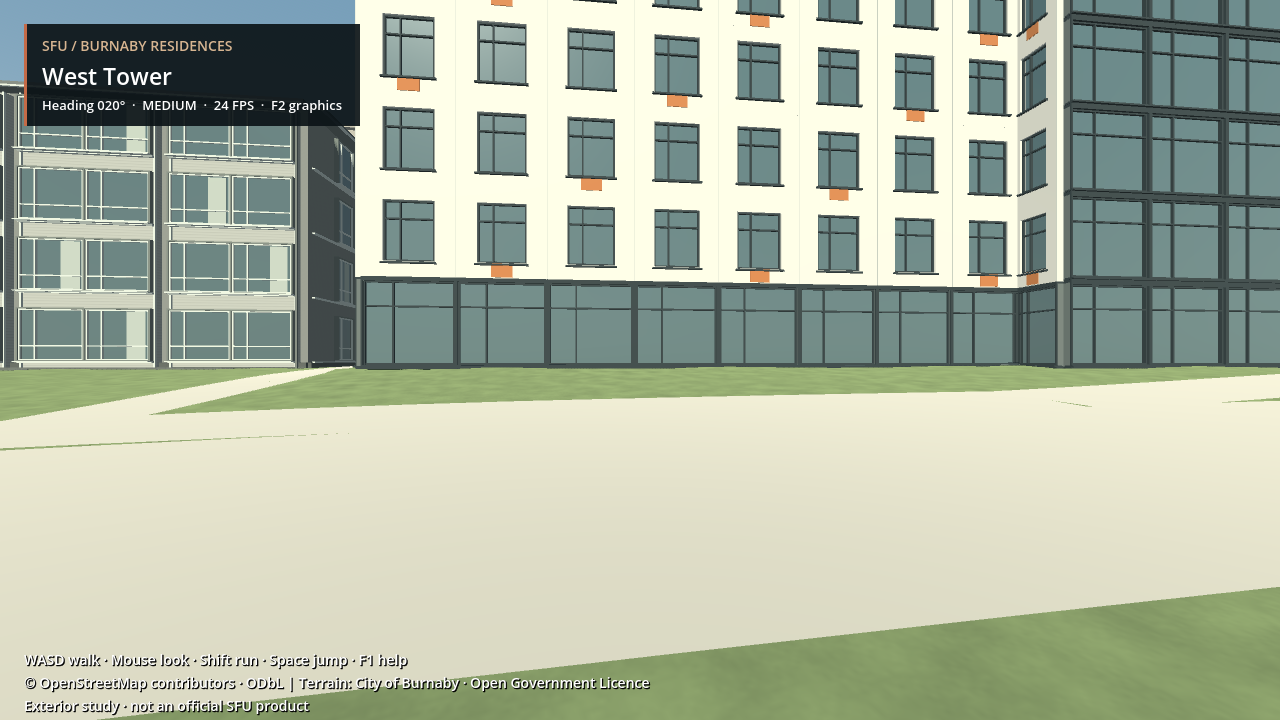
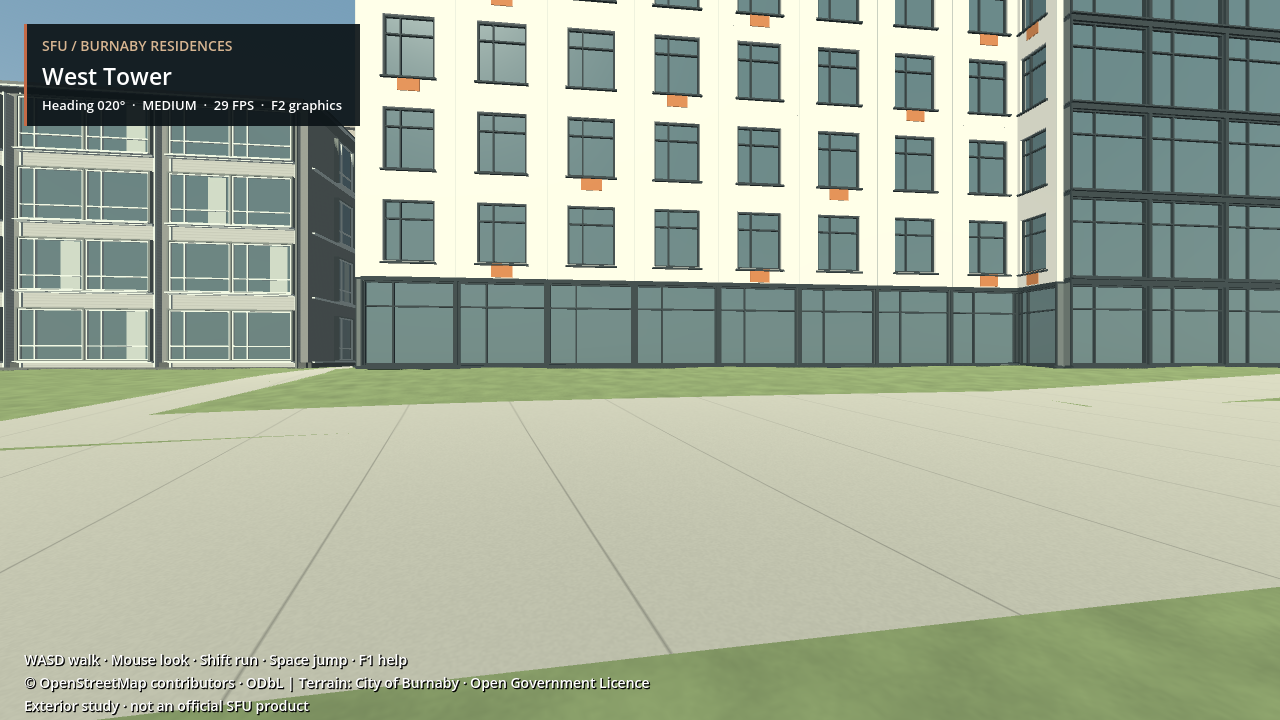
Differentiate photo-informed pavement finishes and prevent overlap flicker

diff --git a/docs/PHASE2_HANDOFF.md b/docs/PHASE2_HANDOFF.md
@@ -1,5 +1,13 @@
 # Phase 2 handoff — 2026-10-17
 
+## Latest verified checkpoint: local pavement finishes
+Courtyard massing checkpoint e642e99 remains verified (180 physics checks / 333 route checkpoints). Pavement now distinguishes grey townhouse paths, warm/grey East entrance pavers and aggregate concrete. Original path/parking polygons, terrain and collisions are unchanged. Close-view inspection caught and corrected coplanar overlap: shared world UVs and ordered 45/50/55/65/75mm visual layers remove competing patterns without physics changes. These small offsets are render separation, not actual surveyed curb heights.
+
+Smoke passed in /tmp/pavement-finish-smoke.log. Final GTX1650 Compatibility capture /tmp/pavement-final-capture.log and paving_0..2.png reviewed. Runtime reports 195 concrete, 111 townhouse-grey, 2 East-paver and 90 vehicle segments. Preservation and family validators pass. Exact material boundaries, joint orientation/spacing and apron extent are estimated. Master East/West and townhouse architecture unchanged.
+
+Next: McTaggart window/entrance detail pass; connector massing/location still requires evidence. All 46 current local photo files have individual review records in data/photo_review_coverage.json.
+
+
 ## Resume here
 Use outer game/ and current working tree. Verified commits: 1df28b3 Dining exterior, 55c709d paving/fixtures, 8d64ecf grass and capture artifacts. Latest material/index commit follows these. Earlier verified milestones: da90b52 North longitudinal gallery, 996cd31 Hamilton, 9935b61 Shell facade, 6f108df Shell grade stems.
 
@@ -33,8 +41,9 @@ GroundMaterials.gd adds a subtle original mipmapped grass colour texture to the 
 ## Verified McTaggart material follow-up
 Six supplied images indexed; design rendering and duplicate distinguished. Corrected mortar contrast and brick scale from completed photographs. Geometry unchanged. Smoke passed in /tmp/mctaggart-material-smoke.log. GTX1650 Compatibility capture completed in /tmp/mctaggart-material-capture.log; both views inspected, including close-up mortar/brick scale. Preservation and family validators pass. Entrance/connector massing still needs a separate photo/plan correction; this checkpoint only corrects material.
 
-## Usage-window handoff
+## Previous iteration usage-window handoff (historical)
 Host reported 93% of the five-hour allowance used. Finished the current material correction and saved verified work; no further changes started. Next iteration: read this handoff, inspect git status, and continue the prioritized photo backlog. Do not redo completed Dining or landscape work.
 
 ## Verified new iteration: Courtyard massing
 Latest resume baseline d9f9dc5. Five Courtyard photos individually reviewed and indexed. Correcting erroneous uniform eleven-storey extrusion into highrise / three-storey lowrise / lower atrium while preserving the full original outline and tallest roof height. See PHASE2_COURTYARD_PHOTO_REVIEW.md. Final /tmp/courtyard-grade-verification.log: 180 checks and 333 route checkpoints pass. GPU views inspected. Photo index coverage now 46/46 files, including individually reviewed Courtyard, East/West and Townhouse files; exact duplicates and uncertain identities recorded. Next: local paving variants and textured paths, keeping all geometry and approved architecture intact.
+

diff --git a/docs/PHASE2_STATUS.md b/docs/PHASE2_STATUS.md
@@ -1,5 +1,13 @@
 # Phase 2 status — 2026-10-17
 
+## Latest verified checkpoint: local pavement finishes
+Courtyard massing checkpoint e642e99 remains verified (180 physics checks / 333 route checkpoints). Pavement now distinguishes grey townhouse paths, warm/grey East entrance pavers and aggregate concrete. Original path/parking polygons, terrain and collisions are unchanged. Close-view inspection caught and corrected coplanar overlap: shared world UVs and ordered 45/50/55/65/75mm visual layers remove competing patterns without physics changes. These small offsets are render separation, not actual surveyed curb heights.
+
+Smoke passed in /tmp/pavement-finish-smoke.log. Final GTX1650 Compatibility capture /tmp/pavement-final-capture.log and paving_0..2.png reviewed. Runtime reports 195 concrete, 111 townhouse-grey, 2 East-paver and 90 vehicle segments. Preservation and family validators pass. Exact material boundaries, joint orientation/spacing and apron extent are estimated. Master East/West and townhouse architecture unchanged.
+
+Next: McTaggart window/entrance detail pass; connector massing/location still requires evidence. All 46 current local photo files have individual review records in data/photo_review_coverage.json.
+
+
 ## Current runnable checkpoint
 Commits 1df28b3 (Dining Commons) and 55c709d (landscape paving/fixtures), following North gallery, Hamilton and Shell milestones. Godot 4.7.2 Standard, GDScript, Compatibility/OpenGL, Debian WSL2 retained. First-person mouse fix remains unchanged and was confirmed working by the user.
 
@@ -27,8 +35,9 @@ GroundMaterials.gd adds a subtle original mipmapped grass colour texture to the 
 ## Verified McTaggart material follow-up
 Six supplied images indexed; design rendering and duplicate distinguished. Corrected mortar contrast and brick scale from completed photographs. Geometry unchanged. Smoke passed in /tmp/mctaggart-material-smoke.log. GTX1650 Compatibility capture completed in /tmp/mctaggart-material-capture.log; both views inspected, including close-up mortar/brick scale. Preservation and family validators pass. Entrance/connector massing still needs a separate photo/plan correction; this checkpoint only corrects material.
 
-## Usage-window handoff
+## Previous iteration usage-window handoff (historical)
 Host reported 93% of the five-hour allowance used. Finished the current material correction and saved verified work; no further changes started. Next iteration: read this handoff, inspect git status, and continue the prioritized photo backlog. Do not redo completed Dining or landscape work.
 
 ## Verified new iteration: Courtyard massing
 Latest resume baseline d9f9dc5. Five Courtyard photos individually reviewed and indexed. Correcting erroneous uniform eleven-storey extrusion into highrise / three-storey lowrise / lower atrium while preserving the full original outline and tallest roof height. See PHASE2_COURTYARD_PHOTO_REVIEW.md. Final /tmp/courtyard-grade-verification.log: 180 checks and 333 route checkpoints pass. GPU views inspected. Photo index coverage now 46/46 files, including individually reviewed Courtyard, East/West and Townhouse files; exact duplicates and uncertain identities recorded. Next: local paving variants and textured paths, keeping all geometry and approved architecture intact.
+

diff --git a/docs/PHASE2_PAVEMENT_FINISHES.md b/docs/PHASE2_PAVEMENT_FINISHES.md
@@ -1,0 +1,9 @@
+# Pavement finishes — 2026-10-17
+
+User photographs distinguish grey/tan paver courtyards (East Tower sign visible in 1638918934812, 1771013055311, PWL1023), fine grey townhouse paths (1752685165951/12, images2), and pale concrete bands / entrance slabs. PavementMaterials.gd provides original 256px mipmapped aggregate textures; ResidencePavers adds a warm palette. No photo pixels are shipped.
+
+SurfaceController preserves every original road/path centreline, width, parking polygon and ground collision. Pedestrian segments whose midpoint lies within 8m of townhouse footprints receive grey fine aggregate. Existing short pedestrian segments within 14m of East's entrance receive mixed grey/tan pavers, narrow pale borders and occasional transverse bands. This is a bounded material interpretation, not surveyed paving boundaries. East/West building models remain unchanged. Other concrete paths receive subtle aggregate and estimated 2m construction-joint spacing, rather than a flat untextured fill. Vehicle surfaces stay asphalt and unmarked.
+
+Known limits: exact paving extents, drainage locations, planted-bed edges, kerb ramps and construction-joint spacing need measured/site-plan evidence. No new stairs or curbs have been invented. A slight surface offset over the existing terrain avoids z-fighting; physics surface is unchanged.
+
+Verified: smoke passed; three eye-level GPU views reviewed on GTX1650 Compatibility. Close-up revealed coplanar overlap, fixed with shared world UVs and ordered visual offsets (concrete 45mm, grey paths 50mm, border 55mm, pavers 65mm, crossband 75mm). These offsets are render separation, not surveyed curb heights. Textures continue across strip overlaps. Preservation/family validators pass; physics remains the verified 180-check / 333-route baseline. See game/docs/performance_paving.json; FPS is concurrent-load, not an isolated benchmark.
